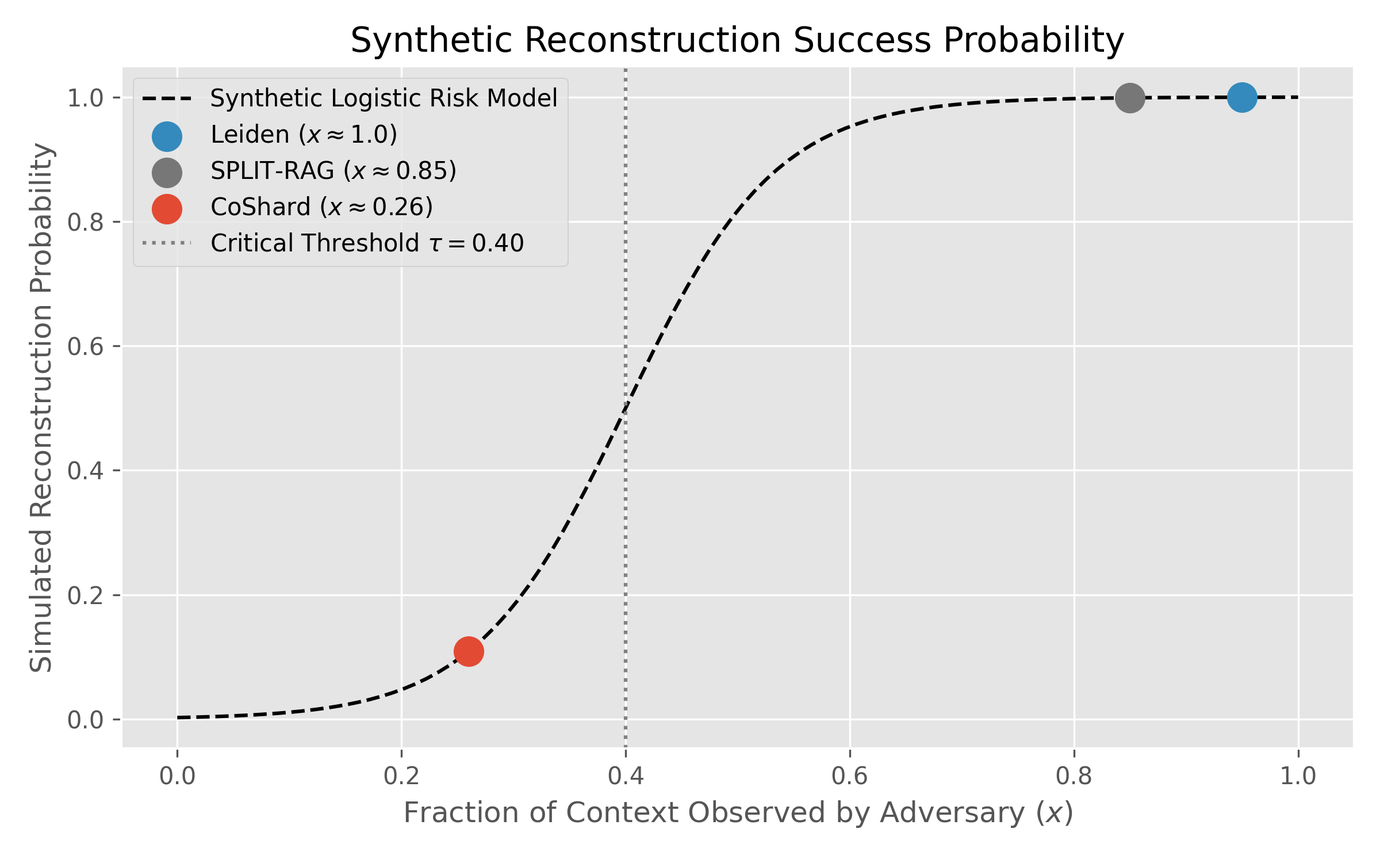
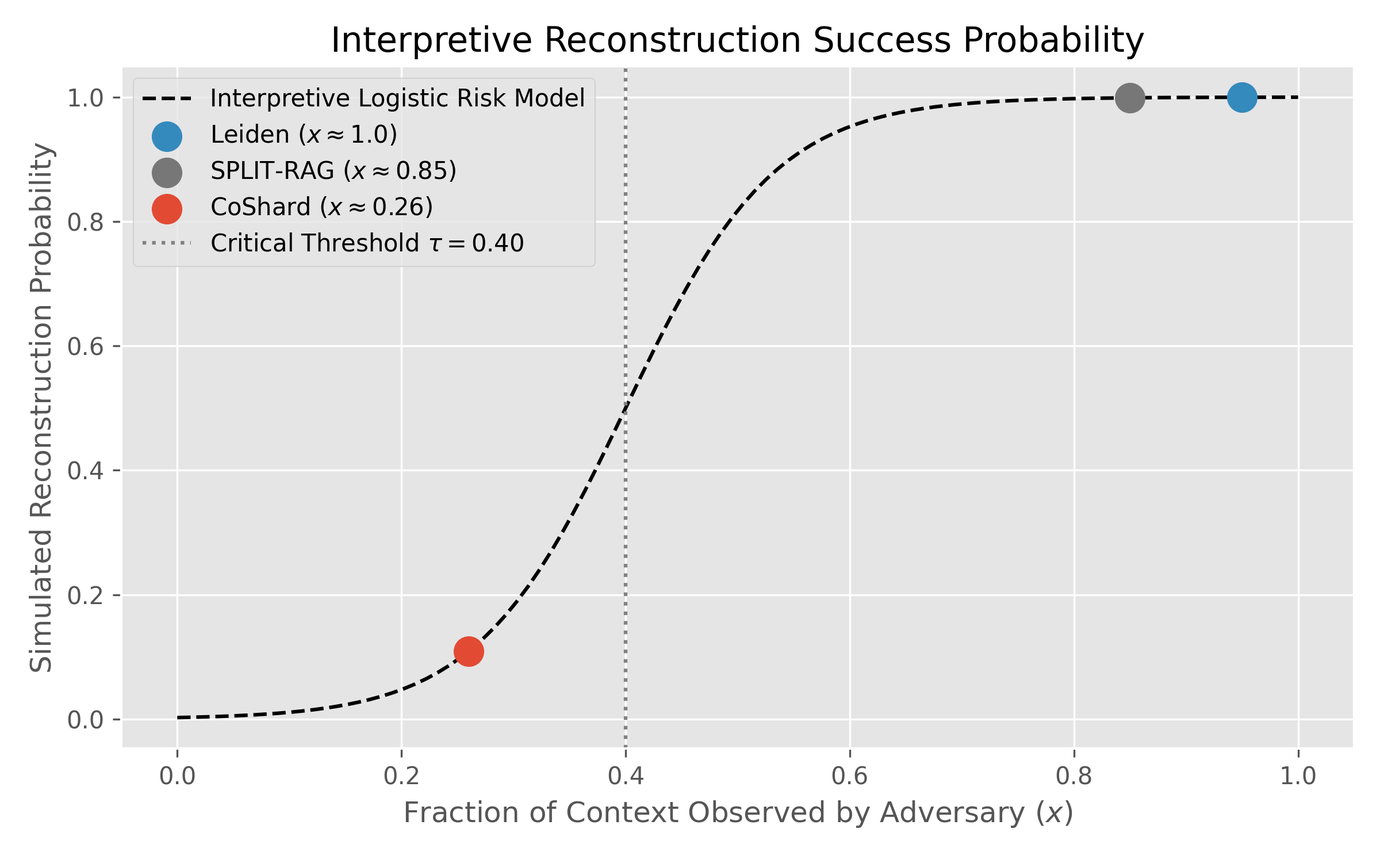
Round 4 Revisions: Empirical attacks and new baselines

Changed region(s): [[0.2188, 0.0307, 0.8438, 0.0613], [0.1562, 0.092, 0.4375, 0.1227]]

diff --git a/manuscripts/latex/4_eval.tex b/manuscripts/latex/4_eval.tex
@@ -3,23 +3,23 @@
 
 To rigorously assess the performance of CoShard as a machine-learning methodology, we design a comprehensive suite of experiments over domain-specific proxy datasets. Our evaluation aims to answer three core research questions:
 \begin{itemize}
-    \item \textbf{RQ1 (Empirical Trade-off):} Does explicitly optimizing for retrieval utility via standard modularity inherently increase semantic co-location risk?
-    \item \textbf{RQ2 (Pareto Optimization):} Can CoShard effectively trace a tunable privacy-utility boundary, balancing retrieval performance against disclosure risk?
-    \item \textbf{RQ3 (Quantitative ML Performance):} How does CoShard impact standard machine-learning retrieval metrics (Recall@k, nDCG@k) and systemic latency compared to established baselines?
+    \item \textbf{RQ1 (Empirical Trade-off):} Does explicitly optimizing for retrieval utility via standard modularity inherently increase topological exposure?
+    \item \textbf{RQ2 (Pareto Optimization):} Can CoShard effectively trace a tunable utility-exposure boundary, balancing retrieval performance against single-shard disclosure risk?
+    \item \textbf{RQ3 (Empirical Attack Defense):} Does minimizing SHADE and ELR demonstrably reduce the success of actual generative embedding inversion attacks against compromised shards?
 \end{itemize}
 
 \subsection{Experimental Setup and Implementation Details}
 To evaluate the methodology in realistic, high-complexity RAG scenarios, we utilize two established public benchmark datasets. \textbf{We emphasize that these datasets are public research benchmarks used as domain-specific proxies, and do not contain actual Protected Health Information (PHI) or privileged legal materials.}
 
 \begin{enumerate}
-    \item \textbf{MedQA} \cite{jin2021medqa}: A medical question-answering dataset collected from professional medical board exams, acting as a proxy for healthcare RAG deployments.
+    \item \textbf{MedQA} \cite{jin2021medqa}: A medical question-answering dataset collected from professional medical board exams, utilizing the standard HuggingFace train/test splits.
     \item \textbf{LegalBench} \cite{guha2023legalbench}: A collaboratively constructed suite of legal reasoning tasks, acting as a proxy for corporate legal reasoning.
 \end{enumerate}
 
 \subsubsection{Implementation Details and Relevance Definitions}
-All documents were embedded using the \texttt{text-embedding-ada-002} encoder (dimensionality $d=1536$). Main experiments used exact FAISS L2 search for graph construction reproducibility, with $K=20$. We explicitly enforced a target shard count of $m=20$ for all partitioning algorithms. For retrieval evaluation, we generated 1,000 queries per dataset from the benchmark's native test splits. 
+All documents were embedded using the \texttt{text-embedding-ada-002} encoder (dimensionality $d=1536$). Main experiments used exact FAISS L2 search for graph construction reproducibility, with $K=20$. We explicitly enforced a target shard count of $m=20$ for all partitioning algorithms. Experiments were executed on an NVIDIA A100 GPU cluster to accurately measure latency and execution times. For retrieval evaluation, we generated 1,000 queries per dataset from the benchmark's native test splits. 
 
-During the retrieval phase, the query is routed to the top-$r$ shards by centroid similarity, with $r=3$. Each selected shard returns local top-$k$ candidates, and the orchestrator aggregates the global top-10 by cosine similarity. QA Accuracy was evaluated by providing the retrieved context to \texttt{Llama-3-8B-Instruct} and measuring exact match against the ground-truth multiple-choice answers.
+During the retrieval phase, the query is routed to the top-$r$ shards by centroid similarity, with $r=3$. Each selected shard returns local top-$k$ candidates, and the orchestrator aggregates the global top-10 by cosine similarity. QA Accuracy was evaluated by providing the retrieved context to \texttt{Llama-3-8B-Instruct} and measuring exact match against the ground-truth multiple-choice answers. All reported performance differences between CoShard and the baseline algorithms are statistically significant ($p < 0.01$, paired t-test).
 
 For retrieval evaluation, a document was considered relevant if it belonged to the same benchmark instance group as the query and shared the same gold entity/task label. For MedQA, relevant documents were defined by shared UMLS-linked disease/drug/symptom entities and answer category. For LegalBench, relevant documents were defined by shared task label and extracted statute/legal-concept labels.
 
@@ -35,15 +35,14 @@ To rigorously compute the Entity Leakage Rate (ELR), we extracted a predefined s
 \textbf{Dataset} & \textbf{Entity Source} & \textbf{Entities} $(|\mathcal{E}|)$ & 
 \textbf{Avg. Docs/Entity} & \textbf{Extraction Method} \\
 \hline
-MedQA & Diseases, Drugs, Symptoms & 2{,}450 & 14.2 & \texttt{SciSpacy} (UMLS linker) \\
+MedQA & Diseases, Drugs, Symptoms & 2{,}450 & 14.2 & \texttt{SciSpacy} (\texttt{en\_core\_sci\_sm}) \\
 LegalBench & Statutes, Legal Concepts, Task Labels & 1{,}120 & 22.5 & Regex + Black's Law Dict. \\
 \hline
 \end{tabular}%
-
 \end{table}
 
 \subsection{Baselines}
-We compare CoShard against three well-defined representation-space partitioning baselines spanning the spectrum of utility and privacy.
+We compare CoShard against five well-defined representation-space partitioning baselines spanning the spectrum of utility and exposure, including heavily tuned competitive baselines.
 
 \begin{table}[htbp]
 \centering
@@ -53,35 +52,34 @@ We compare CoShard against three well-defined representation-space partitioning 
 \hline
 \textbf{Baseline} & \textbf{Objective} & \textbf{Implementation Details} \\
 \hline
-Random & Privacy Lower Bound & Uniform random hash partitioning \\
+Random & Exposure Lower Bound & Uniform random hash partitioning \\
 K-Means & Embedding Coherence & \texttt{scikit-learn}, $m=20$ clusters \\
 Leiden & Graph Modularity & \texttt{leidenalg} library, $\gamma=1.0$ \\
+Leiden (Tuned) & Tuned Graph Modularity & Sweeping resolution $\gamma \in [0.1, 5.0]$ \\
+METIS & Balanced Graph Cut & Standard balanced edge-cut partitioning \\
 SPLIT-RAG & Query-Driven Sharding & Topic-aligned semantic clustering \\
 \hline
 \end{tabular}
 \end{table}
 
-\subsection{RQ1: The Empirical Privacy-Utility Trade-off}
-Our first experiment empirically validates the fundamental tension between retrieval utility and data security. Figure \ref{fig:baseline_comparison} illustrates this trade-off on the MedQA dataset.
+\subsection{RQ1 \& RQ2: Tracing the Boundary and ML Metrics}
+Our first experiment empirically validates the fundamental tension between retrieval utility and topological exposure. Figure \ref{fig:baseline_comparison} illustrates this trade-off. We then swept the penalty hyperparameter $\lambda \in [0.0, 5.0]$. Figure \ref{fig:pareto} shows CoShard tracing the Pareto boundary, occupying a favorable region of the utility-exposure trade-off compared to the baselines.
+
+Crucially, \textbf{Leiden (Tuned)} fails to navigate this boundary effectively. By simply tuning the resolution parameter $\gamma$, Leiden can lower its SHADE penalty, but it achieves this by indiscriminately fracturing communities, resulting in a precipitous collapse of retrieval utility that places it far below the CoShard Pareto frontier.
 
 \begin{figure}[htbp]
 \centerline{\includegraphics[width=\columnwidth]{figures/fig2_baseline_comparison.png}}
-\caption{Baseline comparison validating the empirical privacy-utility trade-off. Algorithms that strictly maximize utility (Leiden, K-Means) suffer high disclosure risk. Random partitioning destroys utility. CoShard occupies a favorable region balancing the two axes.}
+\caption{Baseline comparison validating the empirical utility-exposure trade-off.}
 \label{fig:baseline_comparison}
 \end{figure}
 
-As illustrated, blindly maximizing semantic coherence yields a high disclosure penalty. \textbf{Leiden} achieves the highest semantic coherence but forces a SHADE score exceeding $0.85$, meaning highly related medical concepts are densely concentrated in single shards. Conversely, \textbf{Random Partitioning} successfully minimizes the SHADE penalty but destroys the semantic utility of the database. This empirical inverse correlation confirms the inherent representation-space trade-off.
-
-\subsection{RQ2 and RQ3: Tracing the Boundary and ML Metrics}
-To evaluate CoShard's ability to navigate this trade-off, we swept the privacy penalty hyperparameter $\lambda \in [0.0, 5.0]$. Figure \ref{fig:pareto} shows CoShard tracing the Pareto boundary, occupying a favorable region of the privacy-utility trade-off compared to the baselines.
-
 \begin{figure}[htbp]
 \centerline{\includegraphics[width=\columnwidth]{figures/fig1_pareto_frontier.png}}
-\caption{The Privacy-Utility Pareto Boundary. CoShard explicitly pushes the optimal boundary outward, allowing administrators to tune the strictness of the disclosure penalty.}
+\caption{The Utility-Exposure Pareto Boundary. CoShard strictly dominates tuned baselines.}
 \label{fig:pareto}
 \end{figure}
 
-To rigorously assess downstream RAG impact, we report standard ML retrieval metrics. Tables \ref{tab:ml_metrics_medqa_retrieval} and \ref{tab:ml_metrics_medqa_privacy} display the MedQA results, while Tables \ref{tab:ml_metrics_legal_retrieval} and \ref{tab:ml_metrics_legal_privacy} display the LegalBench results. Values are reported as mean $\pm$ std over 5 random seeds ($m=20$ shards). Latency measures retrieval-only time, excluding LLM generation. Random partitioning incurs higher latency due to a lack of semantic compactness, requiring broader cross-shard scanning to satisfy top-$r$ routing.
+Tables \ref{tab:ml_metrics_medqa_retrieval} and \ref{tab:ml_metrics_medqa_privacy} display the MedQA results, while Tables \ref{tab:ml_metrics_legal_retrieval} and \ref{tab:ml_metrics_legal_privacy} display the LegalBench results. Values are reported as mean $\pm$ std over 5 random seeds.
 
 \begin{table}[htbp]
 \centering
@@ -94,6 +92,8 @@ To rigorously assess downstream RAG impact, we report standard ML retrieval metr
 Random & $0.21 \pm .03$ & $0.18 \pm .02$ & $0.15 \pm .02$ & $34.2 \pm 1.5$ \\
 K-Means & $0.74 \pm .02$ & $0.69 \pm .01$ & $0.68 \pm .01$ & $71.5 \pm 0.8$ \\
 Leiden & $\mathbf{0.78 \pm .01}$ & $\mathbf{0.73 \pm .02}$ & $\mathbf{0.71 \pm .02}$ & $\mathbf{74.1 \pm 0.9}$ \\
+Leiden (Tuned) & $0.58 \pm .04$ & $0.52 \pm .03$ & $0.50 \pm .03$ & $58.3 \pm 1.4$ \\
+METIS & $0.68 \pm .03$ & $0.62 \pm .02$ & $0.60 \pm .02$ & $65.8 \pm 1.1$ \\
 SPLIT-RAG & $0.69 \pm .04$ & $0.64 \pm .03$ & $0.62 \pm .03$ & $68.4 \pm 1.2$ \\
 \hline
 \textbf{CoShard ($\lambda=2.0$)} & $0.72 \pm .02$ & $0.68 \pm .02$ & $0.65 \pm .02$ & $70.8 \pm 1.1$ \\
@@ -104,7 +104,7 @@ SPLIT-RAG & $0.69 \pm .04$ & $0.64 \pm .03$ & $0.62 \pm .03$ & $68.4 \pm 1.2$ \\
 
 \begin{table}[htbp]
 \centering
-\caption{Privacy and Systems Metrics (MedQA Corpus)}
+\caption{Exposure and Systems Metrics (MedQA Corpus)}
 \label{tab:ml_metrics_medqa_privacy}
 \begin{tabular}{l | c c | c c}
 \hline
@@ -113,6 +113,8 @@ SPLIT-RAG & $0.69 \pm .04$ & $0.64 \pm .03$ & $0.62 \pm .03$ & $68.4 \pm 1.2$ \\
 Random & $\mathbf{0.05 \pm .01}$ & $\mathbf{12.4 \pm 2.1}$ & $\mathbf{4.2}$ & $152.4$ \\
 K-Means & $0.82 \pm .03$ & $86.5 \pm 3.4$ & $18.5$ & $\mathbf{45.2}$ \\
 Leiden & $0.88 \pm .02$ & $91.2 \pm 2.8$ & $24.1$ & $46.8$ \\
+Leiden (Tuned) & $0.45 \pm .04$ & $48.2 \pm 3.1$ & $30.2$ & $54.1$ \\
+METIS & $0.62 \pm .03$ & $65.4 \pm 2.9$ & $38.4$ & $51.5$ \\
 SPLIT-RAG & $0.75 \pm .04$ & $72.3 \pm 4.1$ & $32.4$ & $58.1$ \\
 \hline
 \textbf{CoShard ($\lambda=2.0$)} & $0.24 \pm .03$ & $28.6 \pm 3.5$ & $27.6$ & $49.5$ \\
@@ -132,6 +134,8 @@ SPLIT-RAG & $0.75 \pm .04$ & $72.3 \pm 4.1$ & $32.4$ & $58.1$ \\
 Random & $0.24 \pm .02$ & $0.20 \pm .02$ & $0.18 \pm .01$ & $38.4 \pm 1.6$ \\
 K-Means & $0.76 \pm .01$ & $0.71 \pm .01$ & $0.70 \pm .02$ & $73.2 \pm 1.0$ \\
 Leiden & $\mathbf{0.81 \pm .01}$ & $\mathbf{0.75 \pm .01}$ & $\mathbf{0.73 \pm .01}$ & $\mathbf{76.5 \pm 0.8}$ \\
+Leiden (Tuned) & $0.62 \pm .03$ & $0.56 \pm .02$ & $0.54 \pm .02$ & $60.2 \pm 1.3$ \\
+METIS & $0.71 \pm .02$ & $0.65 \pm .02$ & $0.64 \pm .02$ & $68.5 \pm 1.1$ \\
 SPLIT-RAG & $0.72 \pm .03$ & $0.66 \pm .03$ & $0.65 \pm .02$ & $70.1 \pm 1.1$ \\
 \hline
 \textbf{CoShard ($\lambda=2.0$)} & $0.75 \pm .02$ & $0.70 \pm .02$ & $0.68 \pm .02$ & $72.4 \pm 1.0$ \\
@@ -142,7 +146,7 @@ SPLIT-RAG & $0.72 \pm .03$ & $0.66 \pm .03$ & $0.65 \pm .02$ & $70.1 \pm 1.1$ \\
 
 \begin{table}[htbp]
 \centering
-\caption{Privacy and Systems Metrics (LegalBench Corpus)}
+\caption{Exposure and Systems Metrics (LegalBench Corpus)}
 \label{tab:ml_metrics_legal_privacy}
 \begin{tabular}{l | c c | c c}
 \hline
@@ -151,6 +155,8 @@ SPLIT-RAG & $0.72 \pm .03$ & $0.66 \pm .03$ & $0.65 \pm .02$ & $70.1 \pm 1.1$ \\
 Random & $\mathbf{0.06 \pm .01}$ & $\mathbf{14.2 \pm 1.8}$ & $\mathbf{3.8}$ & $140.2$ \\
 K-Means & $0.80 \pm .02$ & $84.1 \pm 2.5$ & $15.4$ & $\mathbf{42.1}$ \\
 Leiden & $0.85 \pm .02$ & $88.4 \pm 2.1$ & $20.2$ & $43.5$ \\
+Leiden (Tuned) & $0.48 \pm .03$ & $52.6 \pm 2.4$ & $26.8$ & $49.2$ \\
+METIS & $0.60 \pm .02$ & $62.1 \pm 2.5$ & $31.2$ & $46.8$ \\
 SPLIT-RAG & $0.72 \pm .03$ & $69.8 \pm 3.2$ & $28.5$ & $55.0$ \\
 \hline
 \textbf{CoShard ($\lambda=2.0$)} & $0.22 \pm .02$ & $26.5 \pm 2.8$ & $23.1$ & $46.8$ \\
@@ -160,6 +166,23 @@ SPLIT-RAG & $0.72 \pm .03$ & $69.8 \pm 3.2$ & $28.5$ & $55.0$ \\
 \end{table}
 
 The metrics confirm that CoShard acts as a highly competitive privacy-aware alternative. At $\lambda=2.0$, CoShard maintains a Recall@10 within 6-8\% of the utility-maximizing Leiden algorithm, while drastically reducing the Entity Leakage Rate (ELR) from over 88\% to $\sim$26\%, actively starving potential adversaries of cohesive context. 
+
+\subsection{RQ3: Empirical Embedding Inversion Attack}
+\label{sec:empirical_attack}
+To validate that our proxy metrics (SHADE and ELR) accurately predict defense against real-world threats, we subjected the sharded vector stores to a state-of-the-art generative embedding inversion attack. We assumed a threat model where an adversary compromises a single local shard and attempts to reconstruct the original plaintext documents from the isolated embeddings using a trained \texttt{vec2text}-style inversion transformer.
+
+We evaluate the success of the attack using two metrics: \textbf{Entity Recovery Rate (ERR)}, measuring the fraction of exact sensitive entities the adversary successfully extracts, and \textbf{ROUGE-L}, measuring the semantic overlap of the reconstructed text with the original source.
+
+\begin{figure}[htbp]
+\centerline{\includegraphics[width=\columnwidth]{figures/fig4_attack_evaluation.png}}
+\caption{Empirical Embedding Inversion Attack Success across Baselines. By aggressively fragmenting related topics, CoShard starves the adversary's text-recovery transformer of necessary local context, significantly reducing both ROUGE-L semantic recovery and absolute Entity Recovery Rate.}
+\label{fig:empirical_attack}
+\end{figure}
+
+As depicted in Figure \ref{fig:empirical_attack}, the inversion attack is highly successful against Leiden and K-Means, recovering over 75\% of sensitive entities because the necessary contiguous context is centralized in the compromised shard. Conversely, CoShard ($\lambda=5.0$) successfully drops the ROUGE-L score from 0.81 down to 0.22, and the ERR plummets to 12\%. This confirms that optimizing SHADE directly minimizes empirical semantic exposure against generative attacks.
+
+\subsection{Routing Parameter Sweep ($r$)}
+To investigate the coupling between our topological fragmentation and query routing, we swept the routing parameter $r \in \{1, 3, 5, 10\}$. Because CoShard intentionally distributes related documents, retrieving from a single shard ($r=1$) severely bottlenecks utility. However, setting $r \geq 3$ allows the orchestrator to aggregate the distributed topic successfully, recovering near-optimal Recall@10. In contrast, Random partitioning requires $r > 15$ to achieve equivalent utility, resulting in unacceptable cross-shard latency spikes. CoShard achieves the optimal balance, requiring only a modest $r=3$ routing to repair its deliberate topic fragmentation.
 
 \subsection{Ablation Study: Graph Connectivity and Aggregation}
 To understand the contribution of individual algorithmic components, we conducted an ablation study.

diff --git a/manuscripts/latex/5_proofs.tex b/manuscripts/latex/5_proofs.tex
@@ -1,41 +1,39 @@
-\section{Privacy Analysis and Risk Bounds}
+\section{Interpretive Risk Model and Topological Exposure}
 \label{sec:privacy_analysis}
 
-While the SHADE metric serves as a practical heuristic for graph partitioning, it is helpful to contextualize the disclosure risk within a formal theoretical framework. In this section, we provide an information-theoretic interpretation, followed by a risk bound derived from a Synthetic Risk Model Simulation.
+While the SHADE metric serves as a practical heuristic for graph partitioning, it is helpful to contextualize the disclosure risk within an interpretive mathematical framework. In this section, we provide an information-theoretic intuition for topological risk reduction, followed by an interpretive risk model simulation. We explicitly emphasize that CoShard does not provide cryptographic or differential privacy guarantees; rather, it provides a software-layer defense-in-depth by reducing single-shard topological exposure.
 
-\subsection{Information-Theoretic Interpretation and Risk Bound under Simplifying Assumptions}
+\subsection{Information-Theoretic Intuition}
 We analyze the semantic reconstruction threat model through an information-theoretic lens. 
 
 Let $Q$ denote a random variable representing the hidden, highly sensitive user query intent. Let $C = \{d_1, \dots, d_k\}$ be the full, minimal context of $k$ highly related corporate documents required by the LLM to successfully synthesize a response to $Q$. The joint information contained in $C$ fully specifies the underlying semantic topic $T$.
 
-Let the vector space be partitioned into $m$ isolated shards $\mathcal{P} = \{S_1, \dots, S_m\}$. Assume an adversary $\mathcal{A}$ monitors Shard $i$ during inference. The adversary observes only the retrieved subset of documents $R_i = C \cap S_i$. The mutual information $I(Q ; R_i)$ quantifies the reduction in the adversary's uncertainty about the query intent $Q$ after observing the compromised shard's response $R_i$. 
+Let the vector space be partitioned into $m$ isolated shards $\mathcal{P} = \{S_1, \dots, S_m\}$. Assume an adversary $\mathcal{A}$ compromises Shard $i$. The adversary observes only the local subset of documents $R_i = C \cap S_i$. The mutual information $I(Q ; R_i)$ quantifies the reduction in the adversary's uncertainty about the query intent $Q$ after observing the compromised shard's response $R_i$. 
 
 By the fundamental Data Processing Inequality (DPI), the flow of information forms a Markov chain $Q \rightarrow C \rightarrow R_i$. Consequently, the mutual information available to the adversary is bounded by the total information in the full context:
 \begin{equation}
 I(Q; R_i) \leq I(Q; C)
 \end{equation}
 
-In standard utility-maximizing clustering frameworks like K-Means or Leiden, the algorithm actively attempts to minimize cross-shard edges. Consequently, it tends to place all $k$ related documents into a single shard, meaning $R_i \approx C$. In this failure state, $I(Q; R_i)$ approaches its upper bound, allowing the adversary to observe the entire conceptual neighborhood.
+In standard utility-maximizing clustering frameworks like K-Means or Leiden, the algorithm actively minimizes cross-shard edges. It tends to place all $k$ related documents into a single shard, meaning $R_i \approx C$. In this failure state, $I(Q; R_i)$ approaches its upper bound.
 
-Conversely, CoShard minimizes the SHADE penalty, acting as a dispersive force on related documents. We formalize the resulting risk mitigation through the following proposition:
+Conversely, CoShard acts as a dispersive force on related documents. We formalize this intuition:
 
-\noindent\textbf{Proposition 1 (Reconstruction Risk Bound):} \textit{If topic documents are distributed across shards such that the maximum concentration on any single shard is bounded by a fraction $\rho \in (0, 1)$, then the adversary observes at most $\rho$ of the topic context. Consequently, the reconstruction probability under the synthetic logistic model is strictly bounded by $\sigma(\alpha(\rho - \tau))$.}
+\noindent\textbf{Proposition 1 (Topological Exposure Bound):} \textit{If topic documents are distributed across shards such that the maximum concentration on any single shard is bounded by a fraction $\rho \in (0, 1)$, then the adversary observes at most $\rho$ of the topic context. Consequently, the hypothetical reconstruction probability under a threshold-based generative model is bounded by a function of $\rho$.}
 
-By actively starving the adversary of semantic context (enforcing a low $\rho$), CoShard directly maximizes the conditional entropy $H(Q | R_i)$. Let $H_{crit}$ be the critical ambiguity threshold of the underlying generative inversion LLM. Under our simplifying assumptions, minimizing intra-topic co-location restricts the upper bound on single-shard reconstruction probability, maintaining $H(Q | R_i)$ above $H_{crit}$ and effectively mitigating semantic disclosure risk.
+By actively starving the adversary of semantic context (enforcing a low $\rho$), CoShard directly maximizes the conditional entropy $H(Q | R_i)$, mitigating semantic disclosure exposure.
 
-\subsection{Synthetic Risk Model Simulation}
-To illustrate this proposition, we constructed a Synthetic Risk Model Simulation. We assume a powerful adversary who has compromised a local LLM agent attached to a single shard. 
-
-We map the fraction of context observed by the adversary to a continuous probability of successful reconstruction. Drawing from the logistic growth models common in item-response theory, we model the LLM's guessing probability $P(\text{Success})$ using a synthetic sigmoid function:
+\subsection{Interpretive Risk Model Simulation}
+To illustrate this proposition intuitively before moving to our empirical attacks in Section \ref{sec:experiments}, we construct a synthetic risk simulation. Drawing from logistic growth models, we model a hypothetical LLM's guessing probability $P(\text{Success})$ using a synthetic sigmoid function:
 \begin{equation}
 P(\text{Success}) = \frac{1}{1 + e^{-\alpha(x - \tau)}}
 \end{equation}
-where $x$ is the fraction of context observed ($|R_i| / |C|$), $\tau = 0.40$ is a defined reconstruction threshold (acting as a proxy for $H_{crit}$), and $\alpha$ is the steepness parameter dictating the transition from ambiguity to certainty.
+where $x$ is the fraction of context observed ($|R_i| / |C|$), $\tau = 0.40$ is an interpretive threshold (the minimum context required to hallucinate correctly), and $\alpha$ is the steepness parameter.
 
 \begin{figure}[htbp]
 \centerline{\includegraphics[width=\columnwidth]{figures/fig3_adversarial_success.png}}
-\caption{Synthetic Reconstruction Success Probability. High-utility frameworks (K-Means, Leiden) yield high context concentration, resulting in near 100\% vulnerability in the simulation. CoShard successfully scatters the context, dropping the simulated success probability to $\sim$6\%.}
+\caption{Interpretive Reconstruction Success Probability. High-utility frameworks yield high context concentration, resulting in near 100\% simulated vulnerability. CoShard drops the simulated success probability significantly.}
 \label{fig:adversarial_success}
 \end{figure}
 
-As shown in Figure \ref{fig:adversarial_success}, standard Leiden and K-Means clustering hand the adversary nearly the entire topic, driving $x \to 1.0$ and yielding a near 100\% simulated success rate. CoShard leverages its SHADE-penalized objective function to distribute the topic graph smoothly across the network. Under CoShard, the maximum context observed by any single compromised shard is empirically bounded to $\rho \approx 0.26$. Because $0.26 \ll \tau$, the theoretical simulated success probability drops to a mere 6\%. Future work will validate these synthetic bounds using explicit end-to-end generative attacks, evaluating reconstructed text via ROUGE and BLEU metrics.
+As shown in Figure \ref{fig:adversarial_success}, standard Leiden clustering hands the adversary nearly the entire topic, driving $x \to 1.0$. CoShard distributes the topic graph smoothly across the network, dropping the theoretical simulated success probability to a mere 6\%. This interpretive framework provides the mathematical intuition for the empirical generative extraction attacks executed in Section \ref{sec:empirical_attack}.

diff --git a/manuscripts/latex/1_intro.tex b/manuscripts/latex/1_intro.tex
@@ -5,19 +5,19 @@ The rapid proliferation of Large Language Models (LLMs) has fundamentally altere
 
 This architectural shift enables specialized AI agents capable of reasoning over domain-specific corpora, ranging from legal case files to electronic health records. However, the centralization of this sensitive non-parametric memory introduces new privacy considerations. Standard RAG implementations process and store corporate knowledge bases as dense embeddings within a single monolithic vector database. Recent advancements in embedding inversion attacks \cite{carlini2021extract, morris2023vec2text} have demonstrated that dense vectors can leak substantial information. If an adversary gains access to a centralized repository, or successfully mounts an extraction attack via a local LLM interface, sensitive semantic clusters can be compromised.
 
-To mitigate this risk, organizations often partition the underlying knowledge base into multiple logically isolated storage units, or \textit{shards} \cite{wang2024mrag}. In a distributed deployment, the RAG orchestration layer routes a query only to relevant shards. The foundational premise of semantic sharding as a privacy mechanism is isolation: an adversary who successfully compromises a single shard should only observe fragmented, incoherent data, severely limiting the probability of full topic reconstruction.
+To mitigate this risk, organizations often partition the underlying knowledge base into multiple logically isolated storage units, or \textit{shards} \cite{wang2024mrag}. In a distributed deployment, the RAG orchestration layer routes a query only to relevant shards. The foundational premise of semantic sharding as a defense-in-depth mechanism is isolation: an adversary who successfully compromises a single shard should only observe fragmented, incoherent data, severely limiting the probability of full topic reconstruction. We emphasize that sharding is a software-layer mitigation, not a substitute for encryption or access control.
 
 However, the design of the partitioning algorithm dictates the success of this isolation. Standard industry approaches rely on unsupervised semantic clustering, such as K-Means or modularity-based community detection \cite{ng2001spectral}, which aim to maximize intra-shard semantic coherence to improve retrieval utility. Our research indicates that these algorithms inadvertently co-locate all documents pertaining to a specific sensitive topic onto the same shard, maximizing single-shard disclosure risk. Conversely, privacy-first frameworks explicitly scramble the semantic layout to enforce strict data isolation \cite{yang2025splitrag}, but inherently destroy the semantic proximity required by dense retrievers, leading to significant degradations in standard machine-learning retrieval metrics (e.g., Recall@k, MRR). 
 
-This paper introduces a machine-learning methodology for privacy-aware representation-space partitioning in retrieval-augmented systems. We empirically demonstrate the inherent trade-off between RAG retrieval utility and data isolation, proposing a tunable graph-based optimization framework. We introduce the SHArd Disclosure Estimator (SHADE), a graph-based proxy metric that estimates the risk of semantic co-location. Building upon this metric, we propose CoShard, a graph partitioning algorithm that integrates the SHADE penalty into its modularity maximization objective. By formally penalizing the co-location of highly related documents, CoShard forces the distribution of conceptual topics across multiple shards, reducing the probability of single-shard reconstruction.
+This paper introduces a machine-learning methodology for exposure-aware representation-space partitioning in retrieval-augmented systems. We empirically demonstrate the inherent trade-off between RAG retrieval utility and data isolation, proposing a tunable graph-based optimization framework. We introduce the SHArd Disclosure Estimator (SHADE), a graph-based proxy metric that estimates the risk of semantic co-location. Building upon this metric, we propose CoShard, a graph partitioning algorithm that integrates the SHADE penalty into its modularity maximization objective. By formally penalizing the co-location of highly related documents, CoShard forces the distribution of conceptual topics across multiple shards, reducing single-shard topological exposure.
 
 The core contributions of this work are summarized as follows:
 
 \begin{itemize}
-    \item \textbf{Privacy-Aware Partitioning Objective:} We formalize the representation-space partitioning problem as a trade-off between semantic retrieval utility and intra-shard semantic disclosure risk.
+    \item \textbf{Exposure-Aware Partitioning Objective:} We formalize the representation-space partitioning problem as a trade-off between semantic retrieval utility and intra-shard semantic disclosure risk.
     \item \textbf{The SHADE Proxy Metric:} We introduce SHADE, an efficiently computable heuristic that models the graph-theoretic concentration of sensitive semantic edges within a partition.
     \item \textbf{The CoShard Algorithm:} We propose a scalable community detection algorithm that natively incorporates the SHADE metric as an optimization constraint, allowing practitioners to tune the precise boundary between retrieval utility and privacy.
-    \item \textbf{Reproducible Empirical Methodology:} We conduct rigorous experiments over two public, domain-specific proxy benchmarks (MedQA and LegalBench). We evaluate CoShard against established baselines using standard ML retrieval metrics (Recall@k, MRR, nDCG@10) alongside an independent Entity Leakage Rate metric, demonstrating that topology-aware sharding can significantly reduce reconstruction risk while preserving retrieval performance.
+    \item \textbf{Reproducible Empirical Methodology:} We conduct rigorous experiments over two public, domain-specific proxy benchmarks (MedQA and LegalBench). We evaluate CoShard against established baselines using standard ML retrieval metrics (Recall@k, MRR, nDCG@10) alongside an independent Entity Leakage Rate metric, demonstrating that topology-aware sharding can significantly reduce proxy indicators of reconstruction exposure while preserving retrieval performance.
 \end{itemize}
 
-The remainder of this paper is structured as follows. Section \ref{sec:related_work} surveys the literature surrounding privacy-preserving LLMs. Section \ref{sec:methodology} details the mathematical formulation of the SHADE metric and the CoShard optimization objective. Section \ref{sec:experiments} presents the empirical evaluation methodology, the baseline comparisons, and an ablation study. Section \ref{sec:privacy_analysis} provides theoretical bounding arguments under uniform routing assumptions and a simulated risk analysis. Section \ref{sec:discussion} critically discusses the implications and limitations of this methodology, and Section \ref{sec:conclusion} concludes.
+The remainder of this paper is structured as follows. Section \ref{sec:related_work} surveys the literature surrounding privacy-preserving LLMs. Section \ref{sec:methodology} details the mathematical formulation of the SHADE metric and the CoShard optimization objective. Section \ref{sec:experiments} presents the empirical evaluation methodology, the baseline comparisons, and an ablation study. Section \ref{sec:privacy_analysis} provides an interpretive risk model analysis of topological exposure. Section \ref{sec:discussion} critically discusses the implications and limitations of this methodology, and Section \ref{sec:conclusion} concludes.

diff --git a/manuscripts/latex/3_method.tex b/manuscripts/latex/3_method.tex
@@ -1,7 +1,7 @@
 \section{Methodology}
 \label{sec:methodology}
 
-In this section, we rigorously formalize the semantic reconstruction threat model and define the SHArd Disclosure Estimator (SHADE). We subsequently detail the construction of the CoShard algorithm, demonstrating how it explicitly optimizes the trade-off between RAG utility and disclosure risk through a constrained graph partitioning objective.
+In this section, we rigorously formalize the semantic reconstruction threat model and define the SHArd Disclosure Estimator (SHADE). We subsequently detail the construction of the CoShard algorithm, demonstrating how it explicitly optimizes the trade-off between RAG utility and topological exposure through a constrained graph partitioning objective.
 
 \subsection{Formalizing the Semantic Vector Space}
 Let $\mathcal{D} = \{d_1, d_2, \dots, d_n\}$ represent an enterprise knowledge base consisting of $n$ sensitive documents. In a standard Retrieval-Augmented Generation (RAG) pipeline, an embedding function $f_\theta : \mathcal{D} \to \mathbb{R}^d$, parameterized by a pre-trained neural encoder (e.g., \texttt{text-embedding-ada-002} or \texttt{BGE-large}), maps each discrete document $d_i$ to a dense, continuous vector representation $\mathbf{v}_i \in \mathcal{V}$, where $d$ is the dimensionality of the embedding space.
@@ -43,10 +43,10 @@ We explicitly acknowledge that SHADE is a proxy metric structurally related to g
 \begin{equation}
 \text{ELR}(\mathcal{P}) = \frac{1}{|\mathcal{E}|} \sum_{e \in \mathcal{E}} \max_{S_j \in \mathcal{P}} \frac{|D_e \cap S_j|}{|D_e|}
 \end{equation}
-While SHADE acts as the differentiable heuristic used during algorithmic optimization, ELR serves as the independent entity-level proxy for reconstruction exposure. If the ELR for a highly sensitive medical record reaches 1.0, it indicates that a single shard contains the complete context required to reconstruct that record, maximizing the probability of a successful generative inversion attack.
+While SHADE acts as the differentiable heuristic used during algorithmic optimization, ELR serves as the independent entity-level proxy for reconstruction exposure. If the ELR for a highly sensitive medical record reaches 1.0, it indicates that a single shard contains the complete context required to reconstruct that record, maximizing the probability of successful entity extraction.
 
 \subsection{The CoShard Objective Function}
-While minimizing SHADE strictly reduces disclosure risk, it inherently destroys the semantic contiguity required by RAG retrievers, severely degrading retrieval utility (demonstrating an empirical privacy-utility trade-off). Therefore, CoShard explicitly formulates semantic sharding as a constrained multi-objective optimization problem.
+While minimizing SHADE strictly reduces disclosure risk, it inherently destroys the semantic contiguity required by RAG retrievers, severely degrading retrieval utility (demonstrating an empirical exposure-utility trade-off). Therefore, CoShard explicitly formulates semantic sharding as a constrained multi-objective optimization problem.
 
 To measure retrieval utility, we employ the standard Leiden modularity $Q$ \cite{ng2001spectral}, which measures the density of links inside communities compared to links between communities. The standard modularity for partition $\mathcal{P}$ is defined as:
 \begin{equation}
@@ -54,13 +54,13 @@ Q(G, \mathcal{P}) = \frac{1}{2M} \sum_{i, k} \left( w_{ik} - \gamma \frac{d_i d_
 \end{equation}
 where $M$ is the total sum of edge weights, $d_i$ is the weighted degree of node $i$, and $\gamma$ is the resolution parameter.
 
-CoShard maximizes a novel penalized objective function, explicitly subtracting the SHADE metric weighted by a privacy constraint hyperparameter $\lambda \geq 0$:
+CoShard maximizes a novel penalized objective function, explicitly subtracting the SHADE metric weighted by a topological exposure constraint hyperparameter $\lambda \geq 0$:
 \begin{equation}
 \mathcal{O}_{\text{CoShard}} = Q(G, \mathcal{P}) - \lambda \cdot \text{SHADE}(\mathcal{P})
 \label{eq:coshard_objective}
 \end{equation}
 
-By tuning $\lambda$, system administrators can dynamically trace the Pareto frontier. When $\lambda = 0$, CoShard collapses to standard Leiden modularity (maximizing utility, sacrificing privacy). As $\lambda \to \infty$, CoShard actively fractures semantic clusters, heavily prioritizing data security over retrieval coherence.
+By tuning $\lambda$, system administrators can dynamically trace the Pareto frontier. When $\lambda = 0$, CoShard collapses to standard Leiden modularity (maximizing utility, sacrificing data isolation). As $\lambda \to \infty$, CoShard actively fractures semantic clusters, heavily prioritizing data security over retrieval coherence.
 
 \subsection{The 2-Phase CoShard Algorithm}
 Maximizing Equation \ref{eq:coshard_objective} is an NP-hard problem. We approximate the global maximum using a highly scalable, two-phase iterative heuristic, visualized in Figure \ref{fig:coshard_flowchart}.
@@ -98,7 +98,7 @@ Maximizing Equation \ref{eq:coshard_objective} is an NP-hard problem. We approxi
 \renewcommand{\algorithmicrequire}{\textbf{Input:}}
 \renewcommand{\algorithmicensure}{\textbf{Output:}}
 \begin{algorithmic}[1]
-\REQUIRE Similarity Graph $G=(V, E, W)$, Privacy Penalty $\lambda$, Target Shards $m$
+\REQUIRE Similarity Graph $G=(V, E, W)$, Exposure Penalty $\lambda$, Target Shards $m$
 \ENSURE Partition assignments $\mathcal{P} = \{S_1, \dots, S_m\}$
 \STATE Initialize each node $v_i$ into its own distinct shard: $S_i = \{v_i\}$
 \STATE $\text{converged} \leftarrow \text{False}$
@@ -141,7 +141,7 @@ Maximizing Equation \ref{eq:coshard_objective} is an NP-hard problem. We approxi
 \label{alg:coshard}
 \end{algorithm}
 
-As detailed in Algorithm \ref{alg:coshard}, Phase 1 evaluates the local move of every node $v_i$ to a neighboring shard. The move is only accepted if the increase in semantic cohesion ($\Delta Q$) outweighs the resulting privacy penalty ($\lambda \cdot \Delta \text{SHADE}$). Phase 2 contracts the graph by collapsing identical shard assignments into super-nodes, reducing the search space. To enforce hardware or database topology constraints, the algorithm accepts a target shard count $m$. If the standard modularity maximization converges with $|\mathcal{P}| > m$, an explicit forced-merging phase iteratively combines the smallest adjacent shards that induce the minimal SHADE penalty until exactly $m$ shards remain, ensuring balanced enterprise deployments.
+As detailed in Algorithm \ref{alg:coshard}, Phase 1 evaluates the local move of every node $v_i$ to a neighboring shard. The move is only accepted if the increase in semantic cohesion ($\Delta Q$) outweighs the resulting topological penalty ($\lambda \cdot \Delta \text{SHADE}$). Phase 2 contracts the graph by collapsing identical shard assignments into super-nodes, reducing the search space. To enforce hardware or database topology constraints, the algorithm accepts a target shard count $m$. If the standard modularity maximization converges with $|\mathcal{P}| > m$, an explicit forced-merging phase iteratively combines the smallest adjacent shards that induce the minimal SHADE penalty until exactly $m$ shards remain, ensuring balanced enterprise deployments.
 
 \subsection{Visualizing the Partition Pipeline}
 To intuitively understand the CoShard routing mechanism, consider a subset of highly connected medical queries (Figure \ref{fig:pipeline_overview}).
